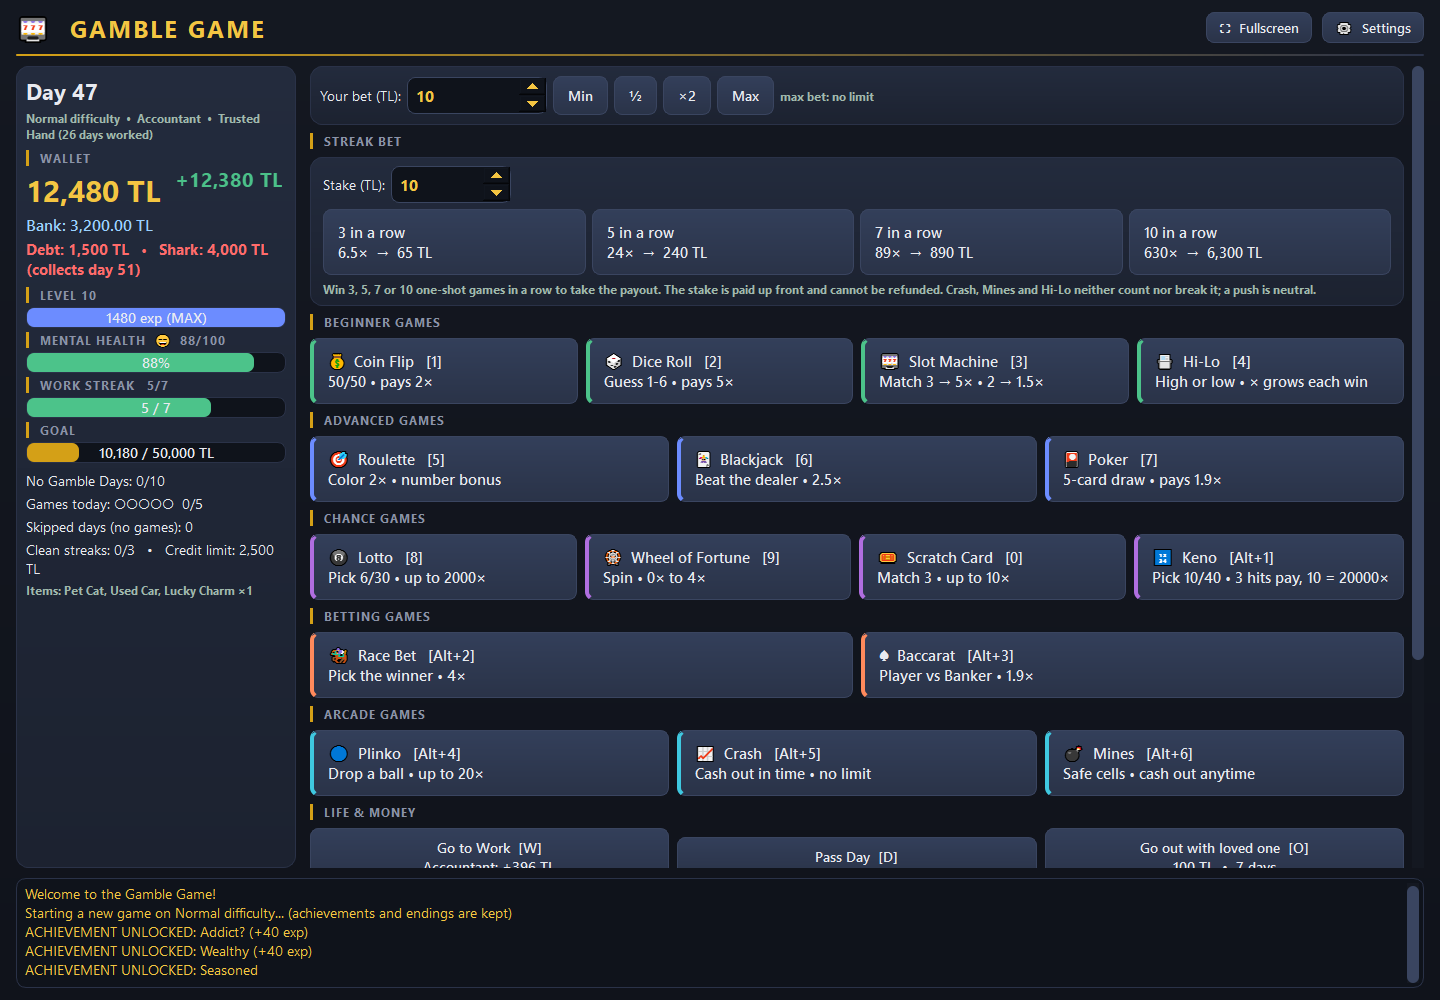
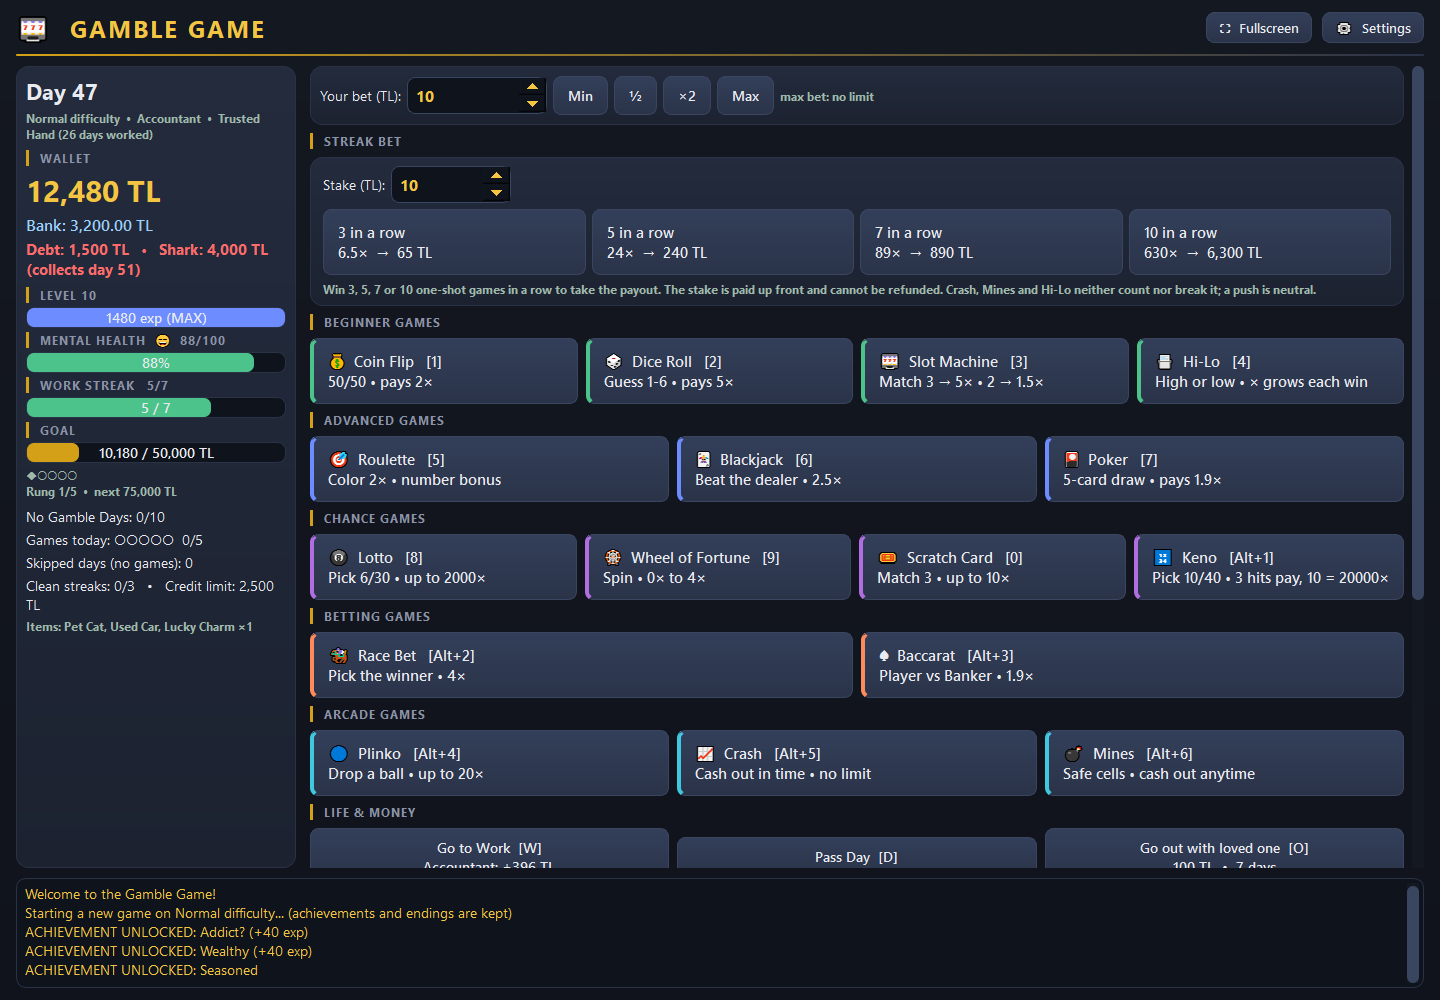
Write the itch.io page and refresh the screenshots
- docs/ITCH-IO.md: page settings, short descriptions (EN/TR), tags, the 12-screenshot upload order, the two download files and a post-publish checklist
- docs/itch-description.html: the full long description, English first and Turkish under it; open in a browser, select all, copy and paste into itch.io's description box so the headings render
- price is Free and both builds are uploaded to itch.io itself (no redirect to GitHub)
- docs/itch-cover.png: 1440x810 (16:9) cover cropped from the lobby shot
- new screenshots of the four features: trophy room case, record plaques with the goal chain, the chain in the sidebar (rung 4/5) and the lobby with both tournaments; the blackjack hand is settled first now, otherwise the in-round lock kept the later shots on the game page
- all screenshots re-rendered from the current build, README gallery gains the trophy/chain row and OKUMA-BENIM.txt lists the new features

Changed region(s): [[0.0, 0.465, 0.1875, 0.651], [0.9688, 0.589, 1.0, 0.651], [0.125, 0.155, 0.1875, 0.186]]

diff --git a/docs/itch-description.html b/docs/itch-description.html
@@ -1,0 +1,164 @@
+<!doctype html>
+<html lang="en">
+<head>
+<meta charset="utf-8">
+<title>Gamble Game - itch.io description (paste source)</title>
+</head>
+<body>
+
+<!--
+HOW TO USE THIS FILE
+  1. Open this file in a browser (double-click it).
+  2. Press Ctrl+A, then Ctrl+C.
+  3. In the itch.io editor (Edit project -> Description), click the box and press Ctrl+V.
+  The browser copies it as rich text, so itch.io renders the headings, lists and links.
+  itch.io keeps the description in one field, so the English text is followed by the Turkish one.
+-->
+
+<p><b>A casino-life simulation.</b> You start the run broke: 100 TL in your pocket, a job to hold down,
+and a money goal in the side panel. How you get there, how far you push and when you walk away is
+your call.</p>
+
+<h2>16 games, every payout written down</h2>
+<p>Coin Flip, Dice, Roulette, Blackjack, Slot, Lotto, Poker, Baccarat, Race, Wheel of Fortune,
+Scratch Card, Crash, Plinko, Hi-Lo, Mines and Keno. The <b>How to play</b> page lists every payout
+table and every return-to-player, and the simulator that ships with the game measures them:
+<b>~92% on Normal</b>, 95% on Easy, 88% on Hard for the difficulty-based games.</p>
+
+<h2>A life around the tables</h2>
+<ul>
+<li><b>Work</b> - five jobs with tenure ranks and weekly bonuses. Work seven days in a row for a
+bonus, but it tires you out - and the boss resets your streak if you gamble at work.</li>
+<li><b>Bank &amp; loans</b> - savings earn interest, credit is limited by your level, and debt that
+grows past it starts costing mental health.</li>
+<li><b>The loan shark</b> - no credit check, 6% a day, a hard four-day deadline, and a collector who
+takes a quarter of your wallet. The one favour: while you owe him, he cleans 15% extra out of
+every win.</li>
+<li><b>Shop, random events, the streak side bet</b> - permanent items (a pet, a car, a lucky charm),
+a therapist, and a side bet on winning 3, 5, 7 or 10 games in a row.</li>
+<li><b>Mental health</b> - every loss costs some. At 0 the run ends.</li>
+</ul>
+
+<h2>Four ways to keep score</h2>
+<ul>
+<li><b>The goal chain</b> - reaching the money goal still ends the run, but it opens the next rung of
+the chain. On Normal the goal climbs <b>50,000 &rarr; 75,000 &rarr; 150,000 &rarr; 300,000 &rarr;
+1,000,000 TL</b>, every cleared rung pays exp at the start of your next run, and the unlocked rung
+is kept forever.</li>
+<li><b>The trophy room</b> - all 36 achievements in one case, plus plaques for your records (best net
+worth, best tournament, best sprint, deepest goal chain).</li>
+<li><b>Tournaments</b> - a 10-day classic (1,000 TL entry) and a 3-day <b>sprint</b> (250 TL) against
+your own net worth, ranked per difficulty. Finish ahead and you get the entry back with a bonus.</li>
+<li><b>Result card</b> - one click saves a PNG of your run (wallet, level, day, goal) ready to share.</li>
+</ul>
+
+<h2>Six endings</h2>
+<p>High Roller, Hollow, Reformed, Bankrupt, Debt Spiral and Breakdown - and 36 achievements hunting
+all of them. Your records, achievements and endings survive every reset.</p>
+
+<h2>English &amp; Turkish</h2>
+<p>Complete <b>English</b> and <b>Turkish</b> interface, switchable in Settings. The rule book exists
+in both languages.</p>
+
+<h2>Download</h2>
+<ul>
+<li><b>GambleGame-1.0.0-Setup.exe</b> - installer. No admin rights, installs outside Program Files,
+uninstalling keeps your saves.</li>
+<li><b>GambleGame-1.0.0-win64.zip</b> - portable. Unpack it and double-click <b>GambleGame.exe</b>
+(keep the <b>_internal</b> folder next to it).</li>
+</ul>
+<p>No Python and no dependencies to install. Windows 10/11, 64-bit.</p>
+
+<h2>Notes</h2>
+<ul>
+<li>The exe is not code-signed, so Windows may show <b>"Unknown publisher"</b>: click
+<i>More info &rarr; Run anyway</i>. If an antivirus complains, it is the usual PyInstaller false
+positive - the SHA-256 of both files is listed on the <a href="https://github.com/Undetox57/gamble-game/releases">GitHub release</a>.</li>
+<li>Your progress lives in three files next to the exe: <b>savegame.txt</b>, <b>gamble_meta.txt</b>,
+<b>gamble_settings.txt</b>. Copy those three to move your progress to another machine. Saves from
+older versions load fine.</li>
+<li>This is a game about gambling with <b>fictional money</b>. No microtransactions, nothing to buy,
+no real money anywhere.</li>
+<li>Source code: <a href="https://github.com/Undetox57/gamble-game">github.com/Undetox57/gamble-game</a>
+- MIT licensed. The rules and the economy have no GUI code in them, which is why the simulator and
+the game always play by the same numbers.</li>
+</ul>
+
+<hr>
+
+<h2>T&uuml;rk&ccedil;e</h2>
+
+<p><b>Kumarhane temalı bir hayat sim&uuml;lasyonu.</b> Koşuya cebinizde 100 TL, bir iş ve yan panelde
+bir para hedefiyle başlarsınız. Gerisi size kalmış: nasıl ulaşacağınız, ne kadar zorlayacağınız ve
+ne zaman masadan kalkacağınız.</p>
+
+<h3>16 oyun, hepsi açık ödeme tablolarıyla</h3>
+<p>Yazı Tura, Zar, Rulet, Blackjack, Slot, Loto, Poker, Baccarat, Yarış, Çarkıfelek, Kazı Kazan,
+Crash, Plinko, Hi-Lo, Mines ve Keno. <b>Nasıl Oynanır</b> sayfasında her oyunun ödeme tablosu ve
+RTP değeri yazıyor; oyunla birlikte gelen sim&uuml;lat&ouml;r de bunları &ouml;l&ccedil;&uuml;yor:
+Normal'de <b>yaklaşık %92</b>, Kolay'da %95, Zor'da %88.</p>
+
+<h3>Masanın etrafındaki hayat</h3>
+<ul>
+<li><b>&Ccedil;alışmak</b> - kıdem r&uuml;tbeli beş iş, hafta sonu primleri ve kumar oynarsanız
+serisini sıfırlayan bir patron.</li>
+<li><b>Banka ve krediler</b> - faizle biriken birikim, seviyenizle sınırlı kredi; borcun limiti
+aşması ruh sağlığınızı yemeye başlar.</li>
+<li><b>Tefeci</b> - kredi kontrol&uuml; yok, g&uuml;nde %6, d&ouml;rt g&uuml;nl&uuml;k kesin bir
+termin ve c&uuml;zdanınızın &ccedil;eyreğini alan bir tahsilat&ccedil;ı. Tek iyiliği: ona
+borcunuz varken her kazancın &uuml;zerinden %15 ekstra kesmesi.</li>
+<li><b>D&uuml;kkan, olaylar, seri bahsi</b> - kalıcı eşyalar (kedi, araba, şanslı tılsım), terapist
+ve art arda 3, 5, 7 ya da 10 oyun kazanma bahsi.</li>
+<li><b>Ruh sağlığı</b> - her kayıp biraz g&ouml;t&uuml;r&uuml;r. 0'da koşu biter.</li>
+</ul>
+
+<h3>D&ouml;rt ayrı skor tablosu</h3>
+<ul>
+<li><b>Hedef zinciri</b> - para hedefine ulaşmak koşuyu bitirir ama zincirin bir sonraki basamağını
+a&ccedil;ar. Normal'de hedef <b>50.000 &rarr; 75.000 &rarr; 150.000 &rarr; 300.000 &rarr;
+1.000.000 TL</b> olarak b&uuml;y&uuml;r; her basamak bir sonraki koşunuzun başında deneyim
+&ouml;d&uuml;l&uuml; verir ve a&ccedil;ılan basamak kalıcıdır.</li>
+<li><b>Trofe odası</b> - 36 başarının tamamı tek bir vitrinde, &uuml;st&uuml;ne rekor levhaları
+(en iyi net varlık, en iyi turnuva, en iyi sprint, en derin hedef zinciri).</li>
+<li><b>Turnuvalar</b> - 10 g&uuml;nl&uuml;k klasik (1.000 TL) ve 3 g&uuml;nl&uuml;k <b>sprint</b>
+(250 TL), ikisi de kendi net varlığınıza karşı; zorluğa g&ouml;re sıralanır. Önde bitirirseniz
+&uuml;cret geri &ouml;denir &uuml;st&uuml;ne prim alırsınız.</li>
+<li><b>Sonu&ccedil; kartı</b> - tek tıkla koşunuzun &ouml;zeti (c&uuml;zdan, seviye, g&uuml;n, hedef)
+PNG olarak kaydedilir, paylaşmaya hazır.</li>
+</ul>
+
+<h3>Altı son</h3>
+<p>Y&uuml;ksek Roller, Boşluk, D&uuml;zelen, iflas, Bor&ccedil; Sarmalı ve Sinir Krizi - &uuml;st&uuml;ne
+36 başarı. Kayıtlar, başarılar ve sonlar her sıfırlamadan sonra korunur.</p>
+
+<h3>T&uuml;rk&ccedil;e aray&uuml;z</h3>
+<p>Tam <b>T&uuml;rk&ccedil;e</b> ve <b>İngilizce</b> aray&uuml;z, Ayarlar'dan anında değiştirilir.
+Kural kitap&ccedil;ası da iki dilde mevcut.</p>
+
+<h3>İndirme</h3>
+<ul>
+<li><b>GambleGame-1.0.0-Setup.exe</b> - kurulum dosyası. Yönetici yetkisi gerektirmez, Program
+Files dışına kurulur; kaldırırken kayıtlarınızı silmez.</li>
+<li><b>GambleGame-1.0.0-win64.zip</b> - taşınabilir. Açın ve <b>GambleGame.exe</b> dosyasına
+&ccedil;ift tıklayın (<b>_internal</b> klas&ouml;r&uuml;n&uuml; yanında tutun).</li>
+</ul>
+<p>Python kurmanıza gerek yok. Windows 10/11, 64-bit.</p>
+
+<h3>Notlar</h3>
+<ul>
+<li>Exe imzalanmadığı için Windows <b>"Bilinmeyen yayıncı"</b> uyarısı g&ouml;sterebilir:
+<i>Daha &ccedil;ok bilgi &rarr; Yine de çalıştır</i> deyin. Antivir&uuml;s complaint ederse bu
+PyInstaller'ın klasik yanlış pozitifidir; dosyaların SHA-256 değerleri
+<a href="https://github.com/Undetox57/gamble-game/releases">GitHub yayınında</a> yer alır.</li>
+<li>İlerlemeniz exe'nin yanında üç dosyada durur: <b>savegame.txt</b>, <b>gamble_meta.txt</b>,
+<b>gamble_settings.txt</b>. Başka bir makineye taşımak için bu üç dosyayı kopyalamanız yeterli.
+Eski s&uuml;r&uuml;mlerden gelen kayıtlar sorunsuz a&ccedil;ılır.</li>
+<li>Bu, <b>kurgusal parayla</b> kumar oynanan bir oyundur. Mikro i&ccedil;i satın alma, satılacak
+bir şey ve ger&ccedil;ek para yoktur.</li>
+<li>Kaynak kod: <a href="https://github.com/Undetox57/gamble-game">github.com/Undetox57/gamble-game</a>
+- MIT lisanslı. Kurallar ve ekonomi GUI kodundan ayrık olduğu için sim&uuml;lat&ouml;r ile oyun
+her zaman aynı sayılarla oynar.</li>
+</ul>
+
+</body>
+</html>

diff --git a/docs/ITCH-IO.md b/docs/ITCH-IO.md
@@ -1,0 +1,81 @@
+# itch.io sayfası - yayın kılavuzu
+
+Sayfa metninin tamamı `docs/itch-description.html` dosyasındadır (İngilizce + Türkçe, tek açıklama
+alanına yapıştırılır). Bu dosya ayarların, kısa tanıtımların, etiketlerin ve ekran görüntüsü
+sırasının listesidir.
+
+## 1. Sayfa ayarları
+
+| Alan | Değer |
+|---|---|
+| Başlık | `Gamble Game` |
+| Kısa tanıtım (EN) | `A casino-life simulation: work, gamble, borrow and try to reach the money goal - or find another way out. 16 games, ~92% RTP, 6 endings, English + Turkish.` (155 karakter) |
+| Kısa tanıtım (TR) | `Kumarhane temalı bir hayat simülasyonu: çalış, kumar oyna, borçlan ve para hedefine ulaş - ya da başka bir çıkış bul. 16 oyun, 6 son, Türkçe arayüz.` (148 karakter) |
+| Tür (Kind) | Downloadable game |
+| Fiyat | **Free** |
+| Platform | Windows (hem `.exe` hem `.zip` için işaretle) |
+| Durum | Released |
+| Website | https://github.com/Undetox57/gamble-game |
+| Diğer araç / motor | Python 3 + PyQt6 |
+| Girdiler | Klavye, Fare |
+| Erişilebilirlik | Tam klavye kontrolü (her eylemin kısayolu var), ayarlanabilir yazı boyutu ve efektler |
+| İçerik uyarısı | Listede **Gambling** varsa işaretle; yoksa bu satırı açıklamanın en üstüne ekle: `Fictional gambling with imaginary money - no real money, nothing to buy.` |
+| Destek | Ücretsiz; istersen "Say thanks" (bağış) seçeneğini açık bırak |
+
+**Açıklama (Description)**: `docs/itch-description.html` dosyasını tarayıcıda aç → `Ctrl+A` →
+`Ctrl+C` → itch.io'nun açıklama kutusuna `Ctrl+V`. Tarayıcı metni zengin metin olarak kopyaladığı
+için başlıklar, listeler ve bağlantılar doğru görünür. Türkçe bölüm İngilizcenin altındadır.
+
+## 2. Kapak
+
+`docs/itch-cover.png` (1440x810, 16:9). Lobinin üst kırpımı: başlık, cüzdan, hedef zinciri ve
+oyun ızgarası görünüyor.
+
+## 3. Ekran görüntüleri (bu sırayla yükle)
+
+| # | Dosya | Gösterdiği |
+|---|---|---|
+| 1 | `screenshots/01-lobby.png` | Lobinin tamamı: 16 oyun, hayat eylemleri, solda hedef zinciri |
+| 2 | `screenshots/10-lobby-sprint.png` | Turnuva paneli: 10 günlük klasik + 3 günlük sprint, menüde Trofe odası |
+| 3 | `screenshots/08b-trophy-plaques.png` | Trofe odası: rekor levhaları (en iyi net varlık, turnuva, sprint, hedef zinciri) |
+| 4 | `screenshots/09-goal-chain.png` | Hedef zinciri: 5 basamaktan 4.'sü, sıradaki hedef 1.000.000 TL |
+| 5 | `screenshots/07-blackjack.png` | Blackjack eli ortasında |
+| 6 | `screenshots/02-keno.png` | Keno turu sonucu |
+| 7 | `screenshots/03-statistics.png` | İstatistikler: net varlık grafiği, oyun başına RTP, rekorlar |
+| 8 | `screenshots/04-bank-shark.png` | Banka, krediler ve tefeci paneli |
+| 9 | `screenshots/08-trophy-room.png` | Trofe vitrini (36 başarı) |
+| 10 | `screenshots/05-achievements.png` | Başarılar ve sonlar |
+| 11 | `screenshots/06-how-to-play.png` | Nasıl Oynanır: tüm kurallar, ödemeler, kısayollar |
+| 12 | `screenshots/01b-tournament.png` | Devam eden klasik turnuva |
+
+Hepsi 1440x1000 PNG. Yeniden üretmek için: `QT_QPA_PLATFORM=windows` altında
+`shots.py` (geçici betik) çalıştırılır, kapak `01-lobby.png`'den 16:9 kırpılır:
+`python -c "from PIL import Image; im=Image.open('docs/screenshots/01-lobby.png'); im.crop((0,0,im.width,int(im.width*9/16))).save('docs/itch-cover.png')"`
+
+## 4. Etiketler (itch.io'nun otomatik tamamlamasından seç)
+
+İlk beş (sayfada öne çıkanlar): `simulation`, `management`, `casino`, `gambling`, `singleplayer`
+
+Sonrasında eklenebilir: `windows`, `simulator`, `roguelite` (her koşu sıfırdan başlar),
+`open source`, `free`, `pyqt`, `text-driven` (metin ağırlıklı olaylar).
+
+## 5. Dosyalar
+
+| Dosya | Ne |
+|---|---|
+| `GambleGame-1.0.0-Setup.exe` | Kurulum. Yönetici yetkisi istemez, Program Files dışına kurar, kaldırınca kayıtları silmez. |
+| `GambleGame-1.0.0-win64.zip` | Taşınabilir. Aç, `GambleGame.exe`'ye çift tıkla (`_internal` klasörünü yanında tut). |
+
+Her ikisine de "Windows" platform etiketi düşer. SHA-256 özetleri `docs/YAYINLAMA.md` ve GitHub
+Release notunda; itch.io açıklaması da oraya yönlendiriyor.
+
+## 6. Yayından sonra
+
+- [ ] Sayfa adresini (örn. `https://undetox57.itch.io/gamble-game`) `README.md` içindeki
+      "Download (players)" bölümüne ve GitHub Release notuna ekle.
+- [ ] itch.io'nun "Download" sayfasında dosya boyutlarının ve platform etiketinin doğru olduğunu
+      kontrol et.
+- [ ] Kendin bir indirme denemesi yap (Setup.exe + zip): SmartScreen uyarısının açıklamada
+      anlatıldığı gibi davrandığını doğrula.
+- [ ] Bir devlog yazısı istersen: "How the payout tables are verified with a simulator" - üç
+      paragraflık kısa bir yazı, `simulate.py rtp` çıktısıyla birlikte.

diff --git a/README.md b/README.md
@@ -2,9 +2,11 @@
 
 A casino-life simulation: work, gamble, borrow, level up, and try to reach your goal (or find another way out).
 
-16 games at ~92% RTP, plus two ways to change the stakes: the **loan shark** (6% a day, a hard deadline,
-but he cleans a cut of your wins) and the **tournament** (a fixed-fee, 10-day race against your own
-net worth, ranked per difficulty).
+16 games at ~92% RTP, plus ways to change the stakes: the **loan shark** (6% a day, a hard deadline,
+but he cleans a cut of your wins) and the **tournaments** (a fixed-fee 10-day classic and a 3-day
+sprint, both a race against your own net worth). On top of that a **goal chain** (each cleared goal
+opens a higher one for the next run), a **trophy room**, a shareable **result card**, and a full
+English + Turkish interface.
 
     pip install PyQt6
     python gamble_gui.py
@@ -21,6 +23,11 @@ net worth, ranked per difficulty).
 | <img src="docs/screenshots/03-statistics.png" alt="Statistics" width="100%"> | <img src="docs/screenshots/04-bank-shark.png" alt="Bank and the loan shark" width="100%"> |
 | **Achievements & endings** — 36 goals, 6 ways out | **How to play** — every rule, payout and hotkey |
 | <img src="docs/screenshots/05-achievements.png" alt="Achievements and endings" width="100%"> | <img src="docs/screenshots/06-how-to-play.png" alt="How to play" width="100%"> |
+| **Trophy room** — 36 trophies plus the record plaques | **Goal chain** — clear a goal, the next rung climbs |
+| <img src="docs/screenshots/08b-trophy-plaques.png" alt="Trophy room with record plaques" width="100%"> | <img src="docs/screenshots/09-goal-chain.png" alt="Goal chain in the sidebar" width="100%"> |
+
+The itch.io page (description EN/TR, tags, screenshot order) is written down in
+[`docs/ITCH-IO.md`](docs/ITCH-IO.md).
 
 ## Moving from the old single-file version
 Copy your `savegame.txt` (and `gamble_meta.txt`, `gamble_settings.txt` if you have them) into this folder,
